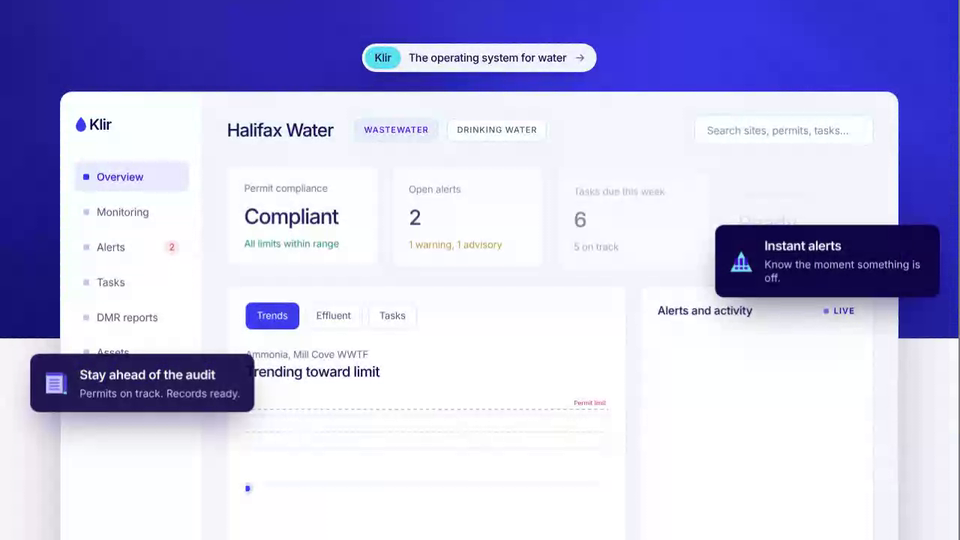
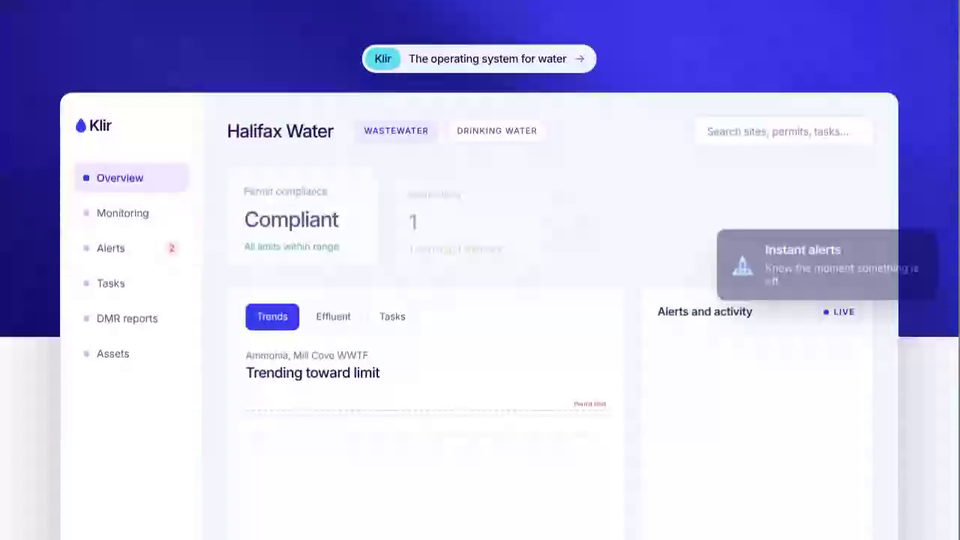
Klir Landing Page: move the audit callout lower (#454)
* Add Klir Wayfinding: scroll-driven blue wayfinding line with waterdrop pin and curve marks

Claude-Session: https://claude.ai/code/session_01AHeBdxxJMjuAF9w67sWwW5

* Klir Wayfinding: Clio-style water hero, drop appears on scroll (white to blue), thinner curves, no dotted track

Claude-Session: https://claude.ai/code/session_01AHeBdxxJMjuAF9w67sWwW5

* Klir Wayfinding: TerraPower-style content with gooey hover images, 'Built for Water.' on one line

Claude-Session: https://claude.ai/code/session_01AHeBdxxJMjuAF9w67sWwW5

* Klir Wayfinding: white teardrop nodes on the line, no dot beside eyebrows

Claude-Session: https://claude.ai/code/session_01AHeBdxxJMjuAF9w67sWwW5

* Klir Wayfinding: customers section with the largest US municipal water agencies after the hero

Claude-Session: https://claude.ai/code/session_01AHeBdxxJMjuAF9w67sWwW5

* Klir Wayfinding: thin gradient wayfinding line with faded edges

Claude-Session: https://claude.ai/code/session_01AHeBdxxJMjuAF9w67sWwW5

* Rename to Klir Landing Page, nav arrows, remove line curves, thinner teardrop outline

Claude-Session: https://claude.ai/code/session_01AHeBdxxJMjuAF9w67sWwW5

* Klir Landing Page: Clio-style blue footer CTA, line fades at marked points, drop limited to the line

Claude-Session: https://claude.ai/code/session_01AHeBdxxJMjuAF9w67sWwW5

* Klir Landing Page: Halifax Water UI screen rising from the hero bottom on scroll, sky blue hero buttons
[…]

diff --git a/klir-landing-page/index.html b/klir-landing-page/index.html
@@ -222,7 +222,7 @@ footer p{font-size:clamp(18px,1.8vw,22px);letter-spacing:-.02em;max-width:30em;m
   <div class="cta"><a class="btn" href="#demo">Book A Demo →</a><a class="tl" href="#demo">Learn more →</a></div>
 </div>
 <main id="top">
-<div class="uiwrap" id="ui"><a class="pill" id="pill" href="https://www.klir.com/" target="_blank" rel="noopener"><span class="pb">Klir</span><span class="pt">The operating system for water</span><svg viewBox="0 0 24 24" width="16" height="16" fill="none" stroke="currentColor" stroke-width="2" stroke-linecap="round" stroke-linejoin="round"><path d="M5 12h14M13 6l6 6-6 6"/></svg></a><div class="tip" id="tip1" style="top:178px;right:-55px"><svg viewBox="0 0 32 32"><path d="M16 3L30 29H2z" fill="#7fe7f5"/><g fill="#3a0fc9"><rect x="8" y="12" width="4" height="9"/><rect x="14" y="12" width="4" height="9"/><rect x="20" y="12" width="4" height="9"/><rect x="8" y="23" width="4" height="3"/><rect x="14" y="23" width="4" height="3"/><rect x="20" y="23" width="4" height="3"/></g></svg><div><b>Instant alerts</b><span>Know the moment something is off.</span></div></div><div class="tip" id="tip2" style="top:350px;left:-40px"><svg viewBox="0 0 32 32"><rect x="3" y="3" width="21" height="26" fill="#c9c4ff"/><rect x="3" y="3" width="21" height="4" fill="#4a2fe0"/><g fill="#6f58f0"><rect x="7" y="11" width="13" height="2"/><rect x="7" y="15" width="13" height="2"/><rect x="7" y="19" width="13" height="2"/><rect x="7" y="23" width="13" height="2"/></g><rect x="25" y="6" width="4" height="21" fill="#4a2fe0"/><rect x="25" y="27" width="4" height="3" fill="#7fe7f5"/></svg><div><b>Stay ahead of the audit</b><span>Permits on track. Records ready.</span></div></div><div class="app" aria-label="Water management dashboard preview">
+<div class="uiwrap" id="ui"><a class="pill" id="pill" href="https://www.klir.com/" target="_blank" rel="noopener"><span class="pb">Klir</span><span class="pt">The operating system for water</span><svg viewBox="0 0 24 24" width="16" height="16" fill="none" stroke="currentColor" stroke-width="2" stroke-linecap="round" stroke-linejoin="round"><path d="M5 12h14M13 6l6 6-6 6"/></svg></a><div class="tip" id="tip1" style="top:178px;right:-55px"><svg viewBox="0 0 32 32"><path d="M16 3L30 29H2z" fill="#7fe7f5"/><g fill="#3a0fc9"><rect x="8" y="12" width="4" height="9"/><rect x="14" y="12" width="4" height="9"/><rect x="20" y="12" width="4" height="9"/><rect x="8" y="23" width="4" height="3"/><rect x="14" y="23" width="4" height="3"/><rect x="20" y="23" width="4" height="3"/></g></svg><div><b>Instant alerts</b><span>Know the moment something is off.</span></div></div><div class="tip" id="tip2" style="top:440px;left:-40px"><svg viewBox="0 0 32 32"><rect x="3" y="3" width="21" height="26" fill="#c9c4ff"/><rect x="3" y="3" width="21" height="4" fill="#4a2fe0"/><g fill="#6f58f0"><rect x="7" y="11" width="13" height="2"/><rect x="7" y="15" width="13" height="2"/><rect x="7" y="19" width="13" height="2"/><rect x="7" y="23" width="13" height="2"/></g><rect x="25" y="6" width="4" height="21" fill="#4a2fe0"/><rect x="25" y="27" width="4" height="3" fill="#7fe7f5"/></svg><div><b>Stay ahead of the audit</b><span>Permits on track. Records ready.</span></div></div><div class="app" aria-label="Water management dashboard preview">
 <aside><div class="brand"><svg width="18" height="22" viewBox="-12 -16 24 32"><use href="#drop" fill="#3b3bef"/></svg>Klir</div><ul><li class=on><i></i>Overview</li><li><i></i>Monitoring</li><li><i></i>Alerts<em>2</em></li><li><i></i>Tasks</li><li><i></i>DMR reports</li><li><i></i>Assets</li></ul></aside>
 <div class="mn"><div class="top"><h3>Halifax Water</h3><span class="chip tab on">Wastewater</span><span class="chip tab">Drinking water</span><div class="srch">Search sites, permits, tasks…</div></div>
 <div class="ks"><div class="k"><small>Permit compliance</small><b>Compliant</b><span class="gr">All limits within range</span></div><div class="k"><small>Open alerts</small><b data-n="2">0</b><span class="am">1 warning, 1 advisory</span></div><div class="k"><small>Tasks due this week</small><b data-n="7">0</b><span class="">5 on track</span></div><div class="k"><small>DMR reporting</small><b>Ready</b><span class="">Next submission Dec 15</span></div></div>
